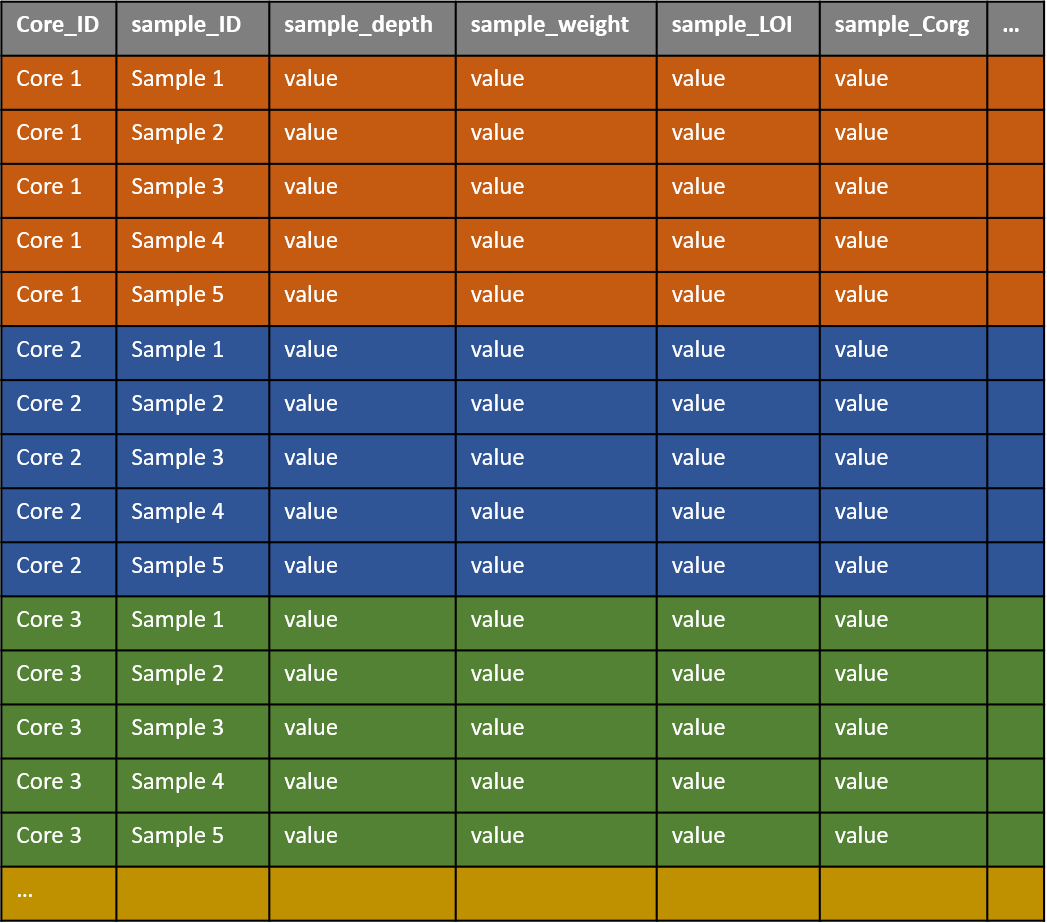
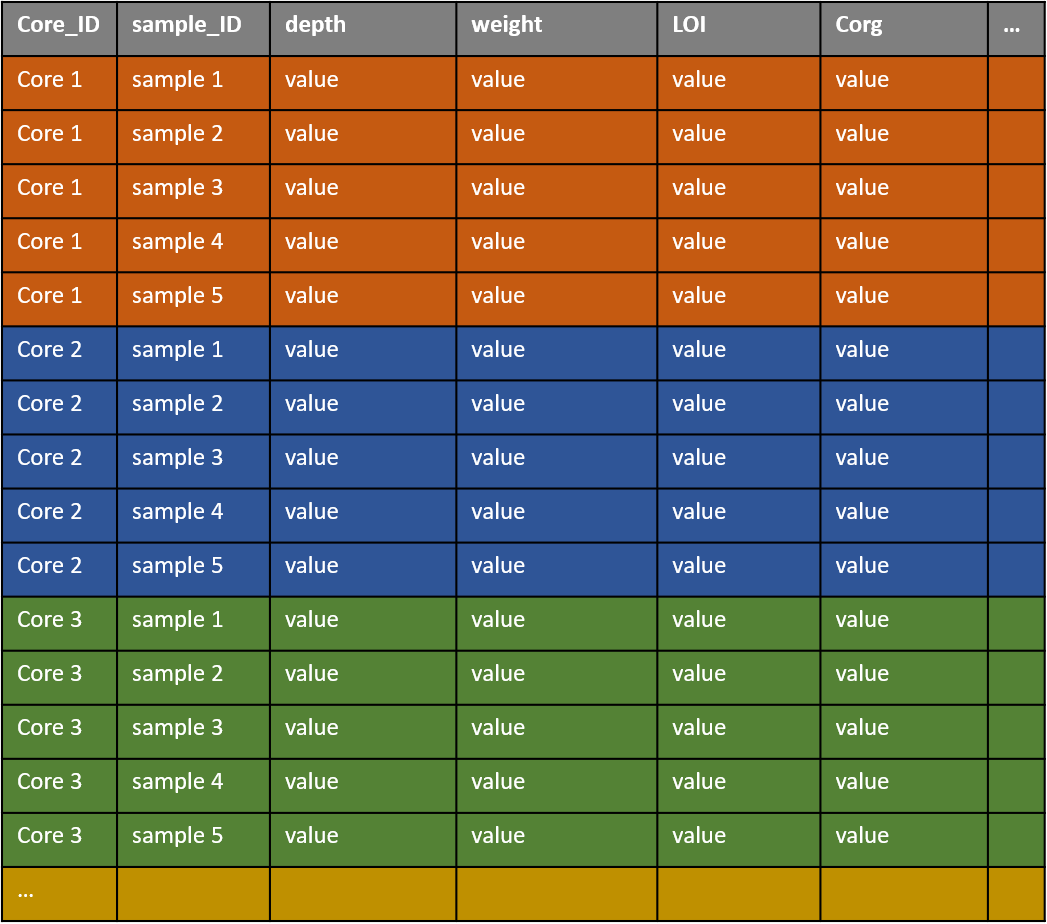
Update Readme and sample table

diff --git a/README.md b/README.md
@@ -39,7 +39,7 @@ devtools::install_github("valybionda/BlueCarbon", build_vignettes = TRUE)
 
 To use the functions collected here, you need to provide 2 datasets:
 1. Sediment core properties
-2. Sediment sample properties (WORK IN PROGRESS)
+2. Sediment sample properties
 
 The data is expected to follow [tidy data format](https://cran.r-project.org/web/packages/tidyr/vignettes/tidy-data.html), with one observation per row and one variable per column.
 
@@ -54,24 +54,28 @@ In particular, for each core **Core_ID** the following information need to be pr
 
 <img src="vignettes/core-extraction.png" alt="core-extraction" width="300"/>
 
-```
+
 **Sediment sample properties**
 
 ![sample-table](vignettes/sample-table.png)
 
-**Important**: the column used to identify the sediment cores **Core_ID** is present in both data.frame as it a key to identify the core from which a sample is originated.
-Sample_ID
-Variable_1
-Variable_2
-```
+1. Core_ID, **Important** this column is present in both data.frame to identify the sediment cores and it's the key to identify the core from which a sample is originated.
+2. sample_ID, to identify each sample
+3. depth, sampling depth of each sample
+4. weight, 
+5. LOI, 
+6. Corg, 
+7. other variables
+
 
 ## Contents
 
 The following functions are presented:
 1.  *bc_compaction*
-2.  *bc_decomp*
-3.  *bc_stock* (work in progress)
-4.  ...        
+2.  *bc_depth_correction*
+
+X.  *bc_decomp* (OLD VERSION)
+        
            
           
 ### 1. *bc_compaction*
@@ -93,7 +97,7 @@ The function uses four arguments
 **compaction rates**, percentage of compression in the core      
 
 
-### 2. *bc_decomp*
+### X. *bc_decomp* (OLD VERSION...)
 
 ```
 Suggestions:
@@ -131,7 +135,7 @@ The output is a data.frame that use the same "ID" of the data provided. For each
 `c_org_density`, density of organic carbon concentration expressed in g/cm<sup>3</sup>           
 `c_org_dens_sect`, density of organic carbon concentration of each section expressed in g/cm<sup>2</sup>      
 
-### 3. *bc_stock* (work in progress)
+### XX. *bc_stock* (Work In Progress)
 
 *bc_stock* calculates carbon stock 
 
